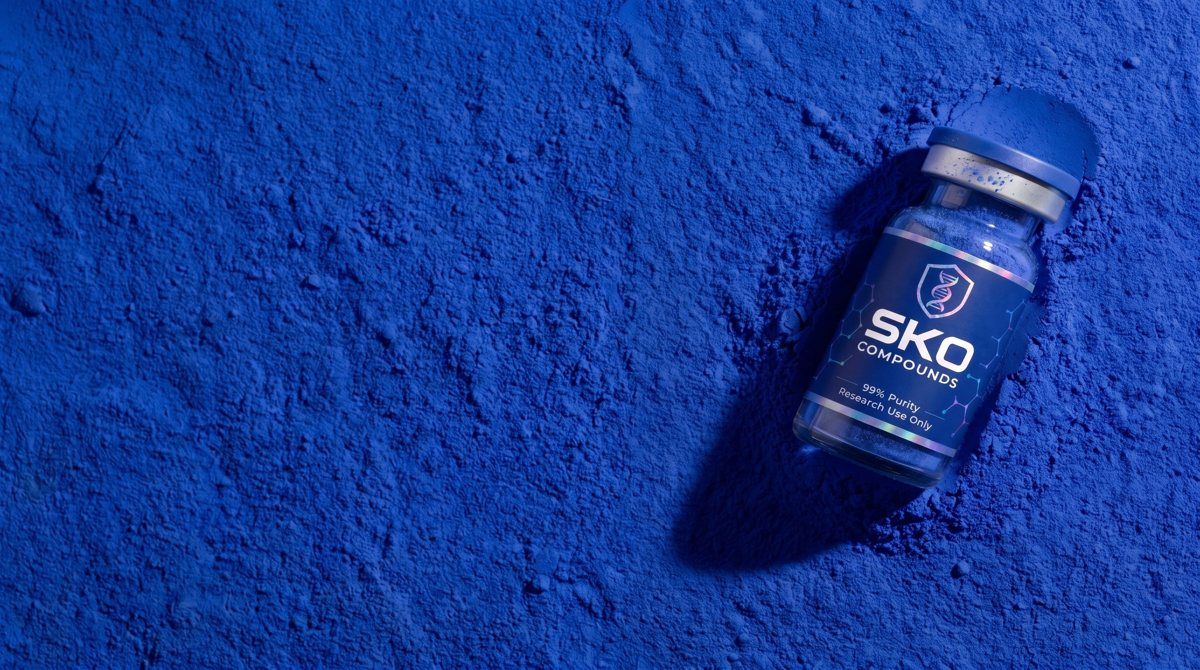
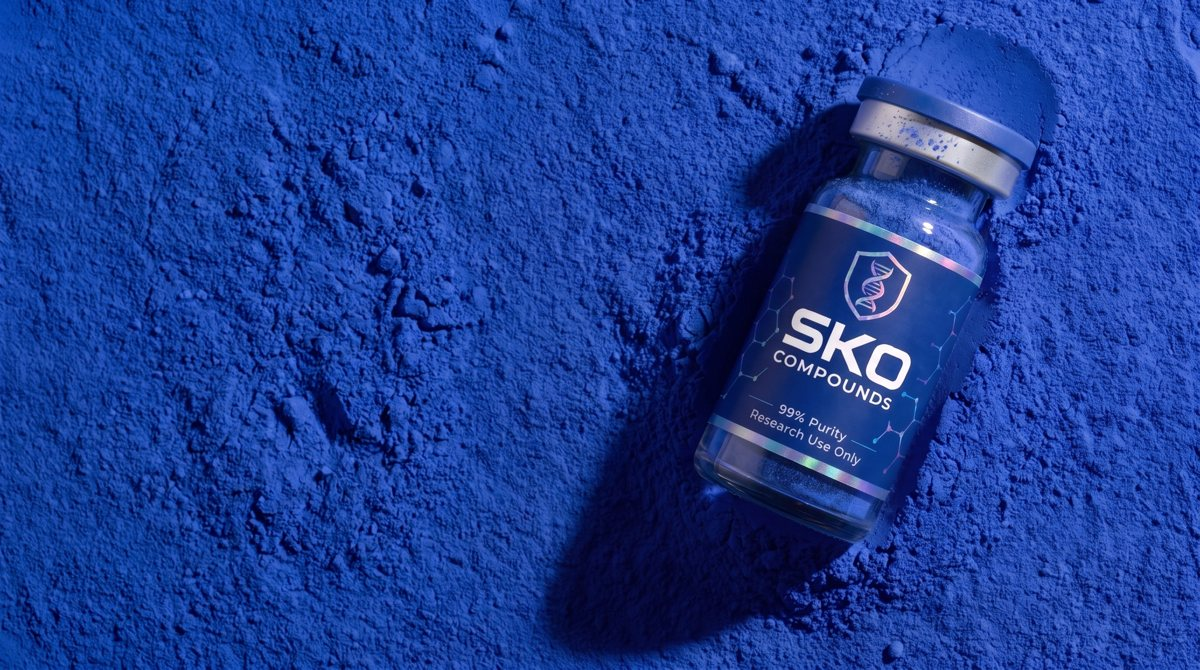
Edition three: straight vial on the cover; liquid chrome hands replace the robots in the dark set

diff --git a/next.html b/next.html
@@ -362,10 +362,10 @@ JetBrains Mono. Ink ground, Frost text. Data only. Never a headline.</div></div>
 </div>
 
 <div class="page" id="dark">
-  <div class="col"><h2>The dark set</h2><p><b>For ads and video, not for the book.</b> Frames where the blue becomes a light and the chrome becomes a body: the liquid glowing inside the glass, the vial frozen in ice, the pigment cliff, and the transhumanist pair, the robot hands and the chrome figure.</p>
-<p>They are louder than the grounds and they earn their place in paid media, where a frame has half a second, and in motion, where a chrome body can move. On the site they are used once, if at all. The figure and the hands never appear on a product page.</p>
+  <div class="col"><h2>The dark set</h2><p><b>For ads and video, not for the book.</b> Frames where the blue becomes a light and the chrome becomes a body: the liquid glowing inside the glass, the vial frozen in ice, the pigment cliff, and the chrome hand, liquid mirror, no skin, holding the vial.</p>
+<p>They are louder than the grounds and they earn their place in paid media, where a frame has half a second, and in motion, where a chrome hand can move. On the site they are used once, if at all. The hand never appears on a product page. No robots, no figures.</p>
 <p class="mono note">The glow is the liquid, never a halo behind the vial.</p></div>
-  <div class="body"><div class="tiles" style="grid-template-columns:repeat(3,1fr);flex:none;height:clamp(200px,26vw,400px);margin-bottom:12px"><a class="tile" style="background:#000" href="img/edition3/glow.jpg" download><img class="fill" src="img/edition3/glow-w.jpg" alt="GLOW"><span class="cap">GLOW</span></a><a class="tile" style="background:#0130C0" href="img/edition3/ice.jpg" download><img class="fill" src="img/edition3/ice-w.jpg" alt="ICE"><span class="cap">ICE</span></a><a class="tile" style="background:#EFEEEC" href="img/edition3/cliff.jpg" download><img class="fill" src="img/edition3/cliff-w.jpg" alt="THE CLIFF"><span class="cap">THE CLIFF</span></a></div><div class="tiles" style="grid-template-columns:repeat(2,1fr);flex:none;height:clamp(220px,30vw,460px);"><a class="tile" style="background:#050a2e" href="img/edition3/robohand.jpg" download><img class="fill" src="img/edition3/robohand-w.jpg" alt="THE HANDS &middot; ADS ONLY"><span class="cap">THE HANDS &middot; ADS ONLY</span></a><a class="tile" style="background:#050a2e" href="img/edition3/figure.jpg" download><img class="fill" src="img/edition3/figure-w.jpg" alt="THE FIGURE &middot; VIDEO ONLY"><span class="cap">THE FIGURE &middot; VIDEO ONLY</span></a></div></div>
+  <div class="body"><div class="tiles" style="grid-template-columns:repeat(3,1fr);flex:none;height:clamp(200px,26vw,400px);margin-bottom:12px"><a class="tile" style="background:#000" href="img/edition3/glow.jpg" download><img class="fill" src="img/edition3/glow-w.jpg" alt="GLOW"><span class="cap">GLOW</span></a><a class="tile" style="background:#0130C0" href="img/edition3/ice.jpg" download><img class="fill" src="img/edition3/ice-w.jpg" alt="ICE"><span class="cap">ICE</span></a><a class="tile" style="background:#EFEEEC" href="img/edition3/cliff.jpg" download><img class="fill" src="img/edition3/cliff-w.jpg" alt="THE CLIFF"><span class="cap">THE CLIFF</span></a></div><div class="tiles" style="grid-template-columns:repeat(2,1fr);flex:none;height:clamp(220px,30vw,460px);"><a class="tile" style="background:#0130C0" href="img/edition3/hand.jpg" download><img class="fill" src="img/edition3/hand-w.jpg" alt="THE HAND &middot; ADS ONLY"><span class="cap">THE HAND &middot; ADS ONLY</span></a><a class="tile" style="background:#0130C0" href="img/edition3/palm.jpg" download><img class="fill" src="img/edition3/palm-w.jpg" alt="THE PALM &middot; ADS ONLY"><span class="cap">THE PALM &middot; ADS ONLY</span></a></div></div>
   <div class="foot"><span class="l"><img src="img/shield.png" alt="">SKO BRAND BOOK</span><span>THE DARK SET</span></div>
 </div>
 
@@ -404,7 +404,7 @@ JetBrains Mono. Ink ground, Frost text. Data only. Never a headline.</div></div>
   <div class="col"><h2>Assets</h2><p>Every plate in this edition at 2000&nbsp;px. PNG masters are held with the source files.</p></div>
   <div class="body">
     <div class="agroup"><h3>Plates</h3>
-    <a class="ass dk" href="img/edition3/cover-wide.jpg" download><span class="th"><img src="img/edition3/cover-wide-w.jpg" alt=""></span><span class="meta"><b>cover-wide.jpg</b><i>2000 PX · JPG</i></span><span class="dl">DOWNLOAD</span></a><a class="ass dk" href="img/edition3/powder.jpg" download><span class="th"><img src="img/edition3/powder-w.jpg" alt=""></span><span class="meta"><b>powder.jpg</b><i>2000 PX · JPG</i></span><span class="dl">DOWNLOAD</span></a><a class="ass dk" href="img/edition3/frost.jpg" download><span class="th"><img src="img/edition3/frost-w.jpg" alt=""></span><span class="meta"><b>frost.jpg</b><i>2000 PX · JPG</i></span><span class="dl">DOWNLOAD</span></a><a class="ass dk" href="img/edition3/alpine.jpg" download><span class="th"><img src="img/edition3/alpine-w.jpg" alt=""></span><span class="meta"><b>alpine.jpg</b><i>2000 PX · JPG</i></span><span class="dl">DOWNLOAD</span></a><a class="ass dk" href="img/edition3/water.jpg" download><span class="th"><img src="img/edition3/water-w.jpg" alt=""></span><span class="meta"><b>water.jpg</b><i>2000 PX · JPG</i></span><span class="dl">DOWNLOAD</span></a><a class="ass dk" href="img/edition3/snow.jpg" download><span class="th"><img src="img/edition3/snow-w.jpg" alt=""></span><span class="meta"><b>snow.jpg</b><i>2000 PX · JPG</i></span><span class="dl">DOWNLOAD</span></a><a class="ass dk" href="img/edition3/rock.jpg" download><span class="th"><img src="img/edition3/rock-w.jpg" alt=""></span><span class="meta"><b>rock.jpg</b><i>2000 PX · JPG</i></span><span class="dl">DOWNLOAD</span></a><a class="ass dk" href="img/edition3/cradle.jpg" download><span class="th"><img src="img/edition3/cradle-w.jpg" alt=""></span><span class="meta"><b>cradle.jpg</b><i>2000 PX · JPG</i></span><span class="dl">DOWNLOAD</span></a><a class="ass dk" href="img/edition3/turbine.jpg" download><span class="th"><img src="img/edition3/turbine-w.jpg" alt=""></span><span class="meta"><b>turbine.jpg</b><i>2000 PX · JPG</i></span><span class="dl">DOWNLOAD</span></a><a class="ass dk" href="img/edition3/badge.jpg" download><span class="th"><img src="img/edition3/badge-w.jpg" alt=""></span><span class="meta"><b>badge.jpg</b><i>2000 PX · JPG</i></span><span class="dl">DOWNLOAD</span></a><a class="ass dk" href="img/edition3/clamp.jpg" download><span class="th"><img src="img/edition3/clamp-w.jpg" alt=""></span><span class="meta"><b>clamp.jpg</b><i>2000 PX · JPG</i></span><span class="dl">DOWNLOAD</span></a><a class="ass dk" href="img/edition3/helixmachine.jpg" download><span class="th"><img src="img/edition3/helixmachine-w.jpg" alt=""></span><span class="meta"><b>helixmachine.jpg</b><i>2000 PX · JPG</i></span><span class="dl">DOWNLOAD</span></a><a class="ass dk" href="img/edition3/glow.jpg" download><span class="th"><img src="img/edition3/glow-w.jpg" alt=""></span><span class="meta"><b>glow.jpg</b><i>2000 PX · JPG</i></span><span class="dl">DOWNLOAD</span></a><a class="ass dk" href="img/edition3/ice.jpg" download><span class="th"><img src="img/edition3/ice-w.jpg" alt=""></span><span class="meta"><b>ice.jpg</b><i>2000 PX · JPG</i></span><span class="dl">DOWNLOAD</span></a><a class="ass dk" href="img/edition3/cliff.jpg" download><span class="th"><img src="img/edition3/cliff-w.jpg" alt=""></span><span class="meta"><b>cliff.jpg</b><i>2000 PX · JPG</i></span><span class="dl">DOWNLOAD</span></a><a class="ass dk" href="img/edition3/robohand.jpg" download><span class="th"><img src="img/edition3/robohand-w.jpg" alt=""></span><span class="meta"><b>robohand.jpg</b><i>2000 PX · JPG</i></span><span class="dl">DOWNLOAD</span></a><a class="ass dk" href="img/edition3/figure.jpg" download><span class="th"><img src="img/edition3/figure-w.jpg" alt=""></span><span class="meta"><b>figure.jpg</b><i>2000 PX · JPG</i></span><span class="dl">DOWNLOAD</span></a>
+    <a class="ass dk" href="img/edition3/cover-wide.jpg" download><span class="th"><img src="img/edition3/cover-wide-w.jpg" alt=""></span><span class="meta"><b>cover-wide.jpg</b><i>2000 PX · JPG</i></span><span class="dl">DOWNLOAD</span></a><a class="ass dk" href="img/edition3/powder.jpg" download><span class="th"><img src="img/edition3/powder-w.jpg" alt=""></span><span class="meta"><b>powder.jpg</b><i>2000 PX · JPG</i></span><span class="dl">DOWNLOAD</span></a><a class="ass dk" href="img/edition3/frost.jpg" download><span class="th"><img src="img/edition3/frost-w.jpg" alt=""></span><span class="meta"><b>frost.jpg</b><i>2000 PX · JPG</i></span><span class="dl">DOWNLOAD</span></a><a class="ass dk" href="img/edition3/alpine.jpg" download><span class="th"><img src="img/edition3/alpine-w.jpg" alt=""></span><span class="meta"><b>alpine.jpg</b><i>2000 PX · JPG</i></span><span class="dl">DOWNLOAD</span></a><a class="ass dk" href="img/edition3/water.jpg" download><span class="th"><img src="img/edition3/water-w.jpg" alt=""></span><span class="meta"><b>water.jpg</b><i>2000 PX · JPG</i></span><span class="dl">DOWNLOAD</span></a><a class="ass dk" href="img/edition3/snow.jpg" download><span class="th"><img src="img/edition3/snow-w.jpg" alt=""></span><span class="meta"><b>snow.jpg</b><i>2000 PX · JPG</i></span><span class="dl">DOWNLOAD</span></a><a class="ass dk" href="img/edition3/rock.jpg" download><span class="th"><img src="img/edition3/rock-w.jpg" alt=""></span><span class="meta"><b>rock.jpg</b><i>2000 PX · JPG</i></span><span class="dl">DOWNLOAD</span></a><a class="ass dk" href="img/edition3/cradle.jpg" download><span class="th"><img src="img/edition3/cradle-w.jpg" alt=""></span><span class="meta"><b>cradle.jpg</b><i>2000 PX · JPG</i></span><span class="dl">DOWNLOAD</span></a><a class="ass dk" href="img/edition3/turbine.jpg" download><span class="th"><img src="img/edition3/turbine-w.jpg" alt=""></span><span class="meta"><b>turbine.jpg</b><i>2000 PX · JPG</i></span><span class="dl">DOWNLOAD</span></a><a class="ass dk" href="img/edition3/badge.jpg" download><span class="th"><img src="img/edition3/badge-w.jpg" alt=""></span><span class="meta"><b>badge.jpg</b><i>2000 PX · JPG</i></span><span class="dl">DOWNLOAD</span></a><a class="ass dk" href="img/edition3/clamp.jpg" download><span class="th"><img src="img/edition3/clamp-w.jpg" alt=""></span><span class="meta"><b>clamp.jpg</b><i>2000 PX · JPG</i></span><span class="dl">DOWNLOAD</span></a><a class="ass dk" href="img/edition3/helixmachine.jpg" download><span class="th"><img src="img/edition3/helixmachine-w.jpg" alt=""></span><span class="meta"><b>helixmachine.jpg</b><i>2000 PX · JPG</i></span><span class="dl">DOWNLOAD</span></a><a class="ass dk" href="img/edition3/glow.jpg" download><span class="th"><img src="img/edition3/glow-w.jpg" alt=""></span><span class="meta"><b>glow.jpg</b><i>2000 PX · JPG</i></span><span class="dl">DOWNLOAD</span></a><a class="ass dk" href="img/edition3/ice.jpg" download><span class="th"><img src="img/edition3/ice-w.jpg" alt=""></span><span class="meta"><b>ice.jpg</b><i>2000 PX · JPG</i></span><span class="dl">DOWNLOAD</span></a><a class="ass dk" href="img/edition3/cliff.jpg" download><span class="th"><img src="img/edition3/cliff-w.jpg" alt=""></span><span class="meta"><b>cliff.jpg</b><i>2000 PX · JPG</i></span><span class="dl">DOWNLOAD</span></a><a class="ass dk" href="img/edition3/hand.jpg" download><span class="th"><img src="img/edition3/hand-w.jpg" alt=""></span><span class="meta"><b>hand.jpg</b><i>2000 PX · JPG</i></span><span class="dl">DOWNLOAD</span></a><a class="ass dk" href="img/edition3/palm.jpg" download><span class="th"><img src="img/edition3/palm-w.jpg" alt=""></span><span class="meta"><b>palm.jpg</b><i>2000 PX · JPG</i></span><span class="dl">DOWNLOAD</span></a>
     </div>
     <div class="agroup"><h3>Previous editions</h3><p>The blue bottle (V2) and the first edition (V1) stay online for reference.</p>
     <a class="ass" href="index.html"><span class="th"><img src="img/shield.png" alt=""></span><span class="meta"><b>V2 · The blue bottle</b><i>INDEX.HTML</i></span><span class="dl">OPEN</span></a>
